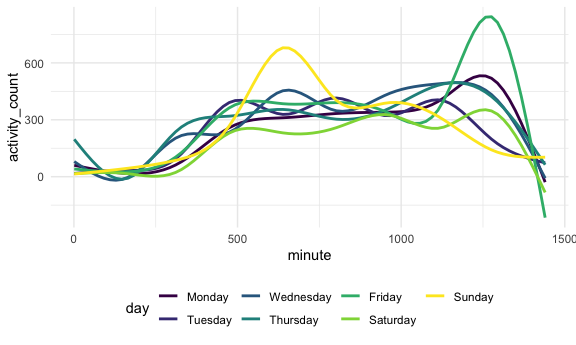
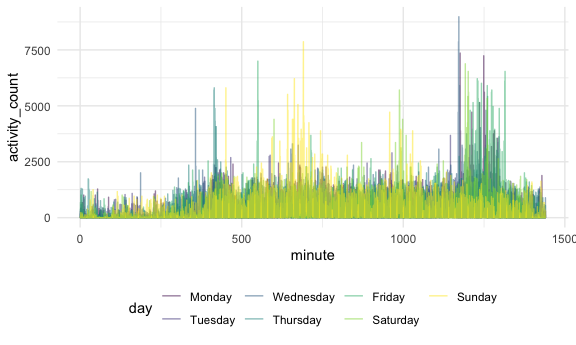
getting number 3 to actually work!

diff --git a/p8105_hw3_km3529.md b/p8105_hw3_km3529.md
@@ -195,10 +195,14 @@ for each day and use color to indicate day of the week. Describe in
 words any patterns or conclusions you can make based on this graph.
 
 ``` r
-#accel_df %>% 
-  #ggplot(aes(x = minute, y = activity_count, color = day)) + 
- # geom_line(alpha = .5) + 
+accel_df %>% 
+  ggplot(aes(x = minute, y = activity_count, color = day)) + 
+ geom_line(alpha = .5) 
+```
 
+<img src="p8105_hw3_km3529_files/figure-gfm/unnamed-chunk-8-1.png" width="90%" />
+
+``` r
 #add title to Plot
 #notes: geom smooth?
 # should have 35 lines? 
@@ -300,10 +304,27 @@ than 100 separately by year.
 
 ``` r
 #Plot 1
+tmin_tmax_p = 
+  ny_noaa %>% 
+    drop_na(tmin, tmax) %>% 
+    ggplot(aes(x = tmax, y = tmin)) + 
+    geom_hex() + 
+    labs(
+      title = "Maximum Temperature v Minimum Temperature", 
+      x = "Maximum Temperature Per Day", 
+      y = "Minimum Temperature Per Day" )
 
-#ny_noaa_df %>% 
-  #select(year, tmax, tmin)  %>% 
- # drop_na() %>% 
- # ggplot(aes(x = "tmax", y = "tmin")) + 
- # geom_bin2d()
+#plot 2
+snow_p = 
+  ny_noaa %>% 
+  drop_na(snow) %>% 
+  filter(snow < 100) %>% 
+  filter(snow > 0 ) %>% 
+    ggplot(aes(x = year, y = snow)) + 
+    geom_violin(alpha = .5) + 
+    theme(axis.text.x = element_text(angle = 270, vjust = 0.5, hjust = 1))
+
+tmin_tmax_p + snow_p
 ```
+
+<img src="p8105_hw3_km3529_files/figure-gfm/unnamed-chunk-13-1.png" width="90%" />
